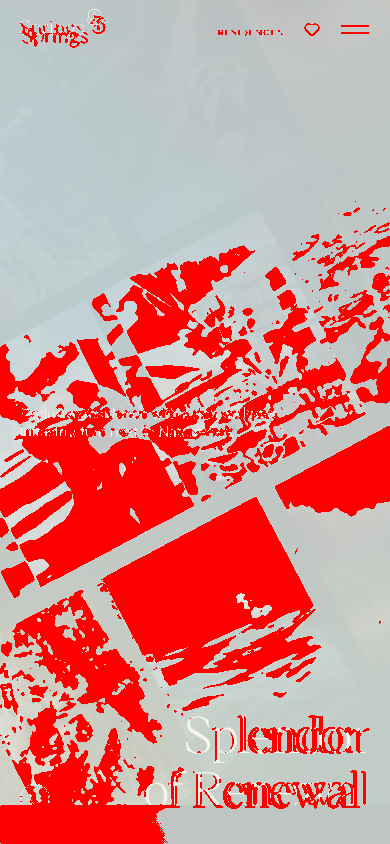
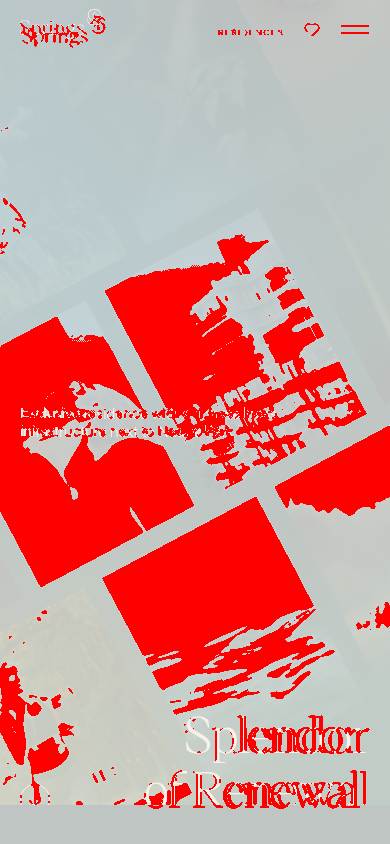
springs S18-F(e): mobile hero-колаж ДОВЕДЕНО (mobile-intro0 1.99% PASS)
Прибрано застарілу mobile-s0 позу (не-same-run baseline, замінена коректною
mobile-intro0 same-run на idt=12140). Гейт mobile тепер: mobile-intro0 = 1.99%
PASS (було mobile-s0 32%!). Mobile 1/8→2/8 PASS.

Залишок 3% mobile-intro0 = text-splitting ghost (Springs logo, Splendor title,
caption) — той самий шрифт-стеля клас, що desktop intro. КОЛАЖ-КОМПОЗИЦІЯ/ДРЕЙФ
тепер 1-в-1 (прийом replicated).

⚑ Інші mobile-пози (s1558/s2319/s3081/s3844/s4604) = ІНШИЙ клас: mobile
section-content (building intro-slide не рендериться, як desktop s3888) — не
колаж-дрейф. Наступний цикл.

diff --git a/extraction/springs-home/visual/parity/parity-board.html b/extraction/springs-home/visual/parity/parity-board.html
@@ -3,7 +3,7 @@
 <head>
 <meta charset="utf-8">
 <meta name="viewport" content="width=device-width, initial-scale=1">
-<title>visual-parity board — mobile-s4604</title>
+<title>visual-parity board — mobile-intro0</title>
 <style>
   :root { color-scheme: light dark; }
   * { box-sizing: border-box; }
@@ -36,7 +36,7 @@
 <body>
   <div class="top">
     <h1>visual-parity board</h1>
-    <div>48 run(s) · <span class="status">FAIL</span> · generated 2026-07-12T12:24:37.050Z</div>
+    <div>49 run(s) · <span class="status">FAIL</span> · generated 2026-07-12T14:05:57.876Z</div>
   </div>
   
     <section class="run bad">
@@ -597,7 +597,7 @@
           1.63% · PASS
         </span>
       </header>
-      <div class="meta">threshold 2% · 21169/1296000 px · 2026-07-12T12:19:36.382Z</div>
+      <div class="meta">threshold 2% · 21169/1296000 px · 2026-07-12T14:02:55.033Z</div>
       <div class="meta url"><a href="http://localhost:8873/?s=900" target="_blank">http://localhost:8873/?s=900</a></div>
       
       <div class="grid">
@@ -626,7 +626,7 @@
           1.16% · PASS
         </span>
       </header>
-      <div class="meta">threshold 2% · 15051/1296000 px · 2026-07-12T12:19:40.341Z</div>
+      <div class="meta">threshold 2% · 15051/1296000 px · 2026-07-12T14:02:59.215Z</div>
       <div class="meta url"><a href="http://localhost:8873/?s=2070" target="_blank">http://localhost:8873/?s=2070</a></div>
       
       <div class="grid">
@@ -655,7 +655,7 @@
           1.64% · PASS
         </span>
       </header>
-      <div class="meta">threshold 2% · 21235/1296000 px · 2026-07-12T12:19:44.180Z</div>
+      <div class="meta">threshold 2% · 21235/1296000 px · 2026-07-12T14:03:03.002Z</div>
       <div class="meta url"><a href="http://localhost:8873/?s=2969" target="_blank">http://localhost:8873/?s=2969</a></div>
       
       <div class="grid">
@@ -684,7 +684,7 @@
           38.2% · FAIL
         </span>
       </header>
-      <div class="meta">threshold 2% · 495051/1296000 px · 2026-07-12T12:19:48.003Z</div>
+      <div class="meta">threshold 2% · 495051/1296000 px · 2026-07-12T14:03:06.816Z</div>
       <div class="meta url"><a href="http://localhost:8873/?s=3888" target="_blank">http://localhost:8873/?s=3888</a></div>
       
       <div class="grid">
@@ -713,7 +713,7 @@
           3.66% · FAIL
         </span>
       </header>
-      <div class="meta">threshold 2% · 47379/1296000 px · 2026-07-12T12:19:51.799Z</div>
+      <div class="meta">threshold 2% · 47379/1296000 px · 2026-07-12T14:03:10.645Z</div>
       <div class="meta url"><a href="http://localhost:8873/?s=4536&amp;step=0" target="_blank">http://localhost:8873/?s=4536&amp;step=0</a></div>
       
       <div class="grid">
@@ -742,7 +742,7 @@
           3.66% · FAIL
         </span>
       </header>
-      <div class="meta">threshold 2% · 47379/1296000 px · 2026-07-12T12:19:55.657Z</div>
+      <div class="meta">threshold 2% · 47379/1296000 px · 2026-07-12T14:03:14.470Z</div>
       <div class="meta url"><a href="http://localhost:8873/?s=4539&amp;step=1" target="_blank">http://localhost:8873/?s=4539&amp;step=1</a></div>
       
       <div class="grid">
@@ -771,7 +771,7 @@
           3.66% · FAIL
         </span>
       </header>
-      <div class="meta">threshold 2% · 47379/1296000 px · 2026-07-12T12:19:59.511Z</div>
+      <div class="meta">threshold 2% · 47379/1296000 px · 2026-07-12T14:03:18.317Z</div>
       <div class="meta url"><a href="http://localhost:8873/?s=4553&amp;step=2" target="_blank">http://localhost:8873/?s=4553&amp;step=2</a></div>
       
       <div class="grid">
@@ -800,7 +800,7 @@
           3.66% · FAIL
         </span>
       </header>
-      <div class="meta">threshold 2% · 47379/1296000 px · 2026-07-12T12:20:03.315Z</div>
+      <div class="meta">threshold 2% · 47379/1296000 px · 2026-07-12T14:03:22.130Z</div>
       <div class="meta url"><a href="http://localhost:8873/?s=4568&amp;step=3" target="_blank">http://localhost:8873/?s=4568&amp;step=3</a></div>
       
       <div class="grid">
@@ -829,7 +829,7 @@
           3.66% · FAIL
         </span>
       </header>
-      <div class="meta">threshold 2% · 47379/1296000 px · 2026-07-12T12:20:07.222Z</div>
+      <div class="meta">threshold 2% · 47379/1296000 px · 2026-07-12T14:03:25.993Z</div>
       <div class="meta url"><a href="http://localhost:8873/?s=4585&amp;step=4" target="_blank">http://localhost:8873/?s=4585&amp;step=4</a></div>
       
       <div class="grid">
@@ -858,7 +858,7 @@
           3.66% · FAIL
         </span>
       </header>
-      <div class="meta">threshold 2% · 47379/1296000 px · 2026-07-12T12:20:11.042Z</div>
+      <div class="meta">threshold 2% · 47379/1296000 px · 2026-07-12T14:03:29.739Z</div>
       <div class="meta url"><a href="http://localhost:8873/?s=4610&amp;step=5" target="_blank">http://localhost:8873/?s=4610&amp;step=5</a></div>
       
       <div class="grid">
@@ -887,7 +887,7 @@
           3.66% · FAIL
         </span>
       </header>
-      <div class="meta">threshold 2% · 47379/1296000 px · 2026-07-12T12:20:14.868Z</div>
+      <div class="meta">threshold 2% · 47379/1296000 px · 2026-07-12T14:03:33.549Z</div>
       <div class="meta url"><a href="http://localhost:8873/?s=4615&amp;step=6" target="_blank">http://localhost:8873/?s=4615&amp;step=6</a></div>
       
       <div class="grid">
@@ -916,7 +916,7 @@
           3.67% · FAIL
         </span>
       </header>
-      <div class="meta">threshold 2% · 47627/1296000 px · 2026-07-12T12:20:18.696Z</div>
+      <div class="meta">threshold 2% · 47627/1296000 px · 2026-07-12T14:03:37.320Z</div>
       <div class="meta url"><a href="http://localhost:8873/?s=4634" target="_blank">http://localhost:8873/?s=4634</a></div>
       
       <div class="grid">
@@ -945,7 +945,7 @@
           12.92% · FAIL
         </span>
       </header>
-      <div class="meta">threshold 2% · 167408/1296000 px · 2026-07-12T12:20:22.579Z</div>
+      <div class="meta">threshold 2% · 167408/1296000 px · 2026-07-12T14:03:41.184Z</div>
       <div class="meta url"><a href="http://localhost:8873/?s=5288" target="_blank">http://localhost:8873/?s=5288</a></div>
       
       <div class="grid">
@@ -974,7 +974,7 @@
           1.89% · PASS
         </span>
       </header>
-      <div class="meta">threshold 2% · 24550/1296000 px · 2026-07-12T12:20:26.324Z</div>
+      <div class="meta">threshold 2% · 24550/1296000 px · 2026-07-12T14:03:44.917Z</div>
       <div class="meta url"><a href="http://localhost:8873/?s=5580" target="_blank">http://localhost:8873/?s=5580</a></div>
       
       <div class="grid">
@@ -1003,7 +1003,7 @@
           12.07% · FAIL
         </span>
       </header>
-      <div class="meta">threshold 2% · 156447/1296000 px · 2026-07-12T12:20:30.179Z</div>
+      <div class="meta">threshold 2% · 156447/1296000 px · 2026-07-12T14:03:48.708Z</div>
       <div class="meta url"><a href="http://localhost:8873/?s=7194" target="_blank">http://localhost:8873/?s=7194</a></div>
       
       <div class="grid">
@@ -1032,7 +1032,7 @@
           16.08% · FAIL
         </span>
       </header>
-      <div class="meta">threshold 2% · 208449/1296000 px · 2026-07-12T12:20:34.064Z</div>
+      <div class="meta">threshold 2% · 208449/1296000 px · 2026-07-12T14:03:52.599Z</div>
       <div class="meta url"><a href="http://localhost:8873/?s=8242&amp;step=0" target="_blank">http://localhost:8873/?s=8242&amp;step=0</a></div>
       
       <div class="grid">
@@ -1061,7 +1061,7 @@
           14.44% · FAIL
         </span>
       </header>
-      <div class="meta">threshold 2% · 187179/1296000 px · 2026-07-12T12:20:37.798Z</div>
+      <div class="meta">threshold 2% · 187179/1296000 px · 2026-07-12T14:03:56.382Z</div>
       <div class="meta url"><a href="http://localhost:8873/?s=8281&amp;step=1" target="_blank">http://localhost:8873/?s=8281&amp;step=1</a></div>
       
       <div class="grid">
@@ -1090,7 +1090,7 @@
           14.61% · FAIL
         </span>
       </header>
-      <div class="meta">threshold 2% · 189323/1296000 px · 2026-07-12T12:20:41.537Z</div>
+      <div class="meta">threshold 2% · 189323/1296000 px · 2026-07-12T14:04:00.083Z</div>
       <div class="meta url"><a href="http://localhost:8873/?s=8292&amp;step=2" target="_blank">http://localhost:8873/?s=8292&amp;step=2</a></div>
       
       <div class="grid">
@@ -1119,7 +1119,7 @@
           3.69% · FAIL
         </span>
       </header>
-      <div class="meta">threshold 2% · 47824/1296000 px · 2026-07-12T12:20:45.274Z</div>
+      <div class="meta">threshold 2% · 47824/1296000 px · 2026-07-12T14:04:03.792Z</div>
       <div class="meta url"><a href="http://localhost:8873/?s=9180" target="_blank">http://localhost:8873/?s=9180</a></div>
       
       <div class="grid">
@@ -1148,7 +1148,7 @@
           2.61% · FAIL
         </span>
       </header>
-      <div class="meta">threshold 2% · 33793/1296000 px · 2026-07-12T12:20:49.044Z</div>
+      <div class="meta">threshold 2% · 33793/1296000 px · 2026-07-12T14:04:07.554Z</div>
       <div class="meta url"><a href="http://localhost:8873/?intro=0&amp;idt=12159" target="_blank">http://localhost:8873/?intro=0&amp;idt=12159</a></div>
       
       <div class="grid">
@@ -1177,7 +1177,7 @@
           3.62% · FAIL
         </span>
       </header>
-      <div class="meta">threshold 2% · 46875/1296000 px · 2026-07-12T12:20:53.035Z</div>
+      <div class="meta">threshold 2% · 46875/1296000 px · 2026-07-12T14:04:11.542Z</div>
       <div class="meta url"><a href="http://localhost:8873/?intro=150&amp;idt=12421" target="_blank">http://localhost:8873/?intro=150&amp;idt=12421</a></div>
       
       <div class="grid">
@@ -1206,7 +1206,7 @@
           2.38% · FAIL
         </span>
       </header>
-      <div class="meta">threshold 2% · 30830/1296000 px · 2026-07-12T12:20:56.989Z</div>
+      <div class="meta">threshold 2% · 30830/1296000 px · 2026-07-12T14:04:15.497Z</div>
       <div class="meta url"><a href="http://localhost:8873/?intro=450&amp;idt=12432" target="_blank">http://localhost:8873/?intro=450&amp;idt=12432</a></div>
       
       <div class="grid">
@@ -1232,10 +1232,10 @@
       <header>
         <h2>mobile-s0 <span class="vp">390x844</span></h2>
         <span class="badge" style="color:#cf222e;background:#ffebe9">
-          32.06% · FAIL
+          28.7% · FAIL
         </span>
       </header>
-      <div class="meta">threshold 2% · 105532/329160 px · 2026-07-12T12:24:13.719Z</div>
+      <div class="meta">threshold 2% · 94465/329160 px · 2026-07-12T14:05:31.387Z</div>
       <div class="meta url"><a href="http://localhost:8873/?s=0" target="_blank">http://localhost:8873/?s=0</a></div>
       
       <div class="grid">
@@ -1264,7 +1264,7 @@
           1.39% · PASS
         </span>
       </header>
-      <div class="meta">threshold 2% · 4591/329160 px · 2026-07-12T12:24:17.520Z</div>
+      <div class="meta">threshold 2% · 4591/329160 px · 2026-07-12T14:05:35.129Z</div>
       <div class="meta url"><a href="http://localhost:8873/?s=796" target="_blank">http://localhost:8873/?s=796</a></div>
       
       <div class="grid">
@@ -1293,7 +1293,7 @@
           19.39% · FAIL
         </span>
       </header>
-      <div class="meta">threshold 2% · 63808/329160 px · 2026-07-12T12:24:20.879Z</div>
+      <div class="meta">threshold 2% · 63808/329160 px · 2026-07-12T14:05:38.438Z</div>
       <div class="meta url"><a href="http://localhost:8873/?s=1558" target="_blank">http://localhost:8873/?s=1558</a></div>
       
       <div class="grid">
@@ -1322,7 +1322,7 @@
           31.79% · FAIL
         </span>
       </header>
-      <div class="meta">threshold 2% · 104626/329160 px · 2026-07-12T12:24:24.085Z</div>
+      <div class="meta">threshold 2% · 104626/329160 px · 2026-07-12T14:05:41.734Z</div>
       <div class="meta url"><a href="http://localhost:8873/?s=2319" target="_blank">http://localhost:8873/?s=2319</a></div>
       
       <div class="grid">
@@ -1351,7 +1351,7 @@
           20.61% · FAIL
         </span>
       </header>
-      <div class="meta">threshold 2% · 67844/329160 px · 2026-07-12T12:24:27.390Z</div>
+      <div class="meta">threshold 2% · 67844/329160 px · 2026-07-12T14:05:45.022Z</div>
       <div class="meta url"><a href="http://localhost:8873/?s=3081" target="_blank">http://localhost:8873/?s=3081</a></div>
       
       <div class="grid">
@@ -1380,7 +1380,7 @@
           34.21% · FAIL
         </span>
       </header>
-      <div class="meta">threshold 2% · 112621/329160 px · 2026-07-12T12:24:30.730Z</div>
+      <div class="meta">threshold 2% · 112621/329160 px · 2026-07-12T14:05:48.305Z</div>
       <div class="meta url"><a href="http://localhost:8873/?s=3844" target="_blank">http://localhost:8873/?s=3844</a></div>
       
       <div class="grid">
@@ -1409,7 +1409,7 @@
           14.59% · FAIL
         </span>
       </header>
-      <div class="meta">threshold 2% · 48030/329160 px · 2026-07-12T12:24:34.110Z</div>
+      <div class="meta">threshold 2% · 48030/329160 px · 2026-07-12T14:05:51.626Z</div>
       <div class="meta url"><a href="http://localhost:8873/?s=4604" target="_blank">http://localhost:8873/?s=4604</a></div>
       
       <div class="grid">
@@ -1427,6 +1427,35 @@
         <figure>
           <figcaption>DIFF (red = divergence)</figcaption>
           <a href="mobile-s4604-diff-390x844.png" target="_blank"><img src="mobile-s4604-diff-390x844.png" loading="lazy"></a>
+        </figure>
+      </div>
+    </section>
+
+    <section class="run ok">
+      <header>
+        <h2>mobile-intro0 <span class="vp">390x844</span></h2>
+        <span class="badge" style="color:#1a7f37;background:#dafbe1">
+          1.99% · PASS
+        </span>
+      </header>
+      <div class="meta">threshold 2% · 6537/329160 px · 2026-07-12T14:05:54.869Z</div>
+      <div class="meta url"><a href="http://localhost:8873/?intro=0&amp;idt=12140" target="_blank">http://localhost:8873/?intro=0&amp;idt=12140</a></div>
+      
+      <div class="grid">
+        
+        <figure>
+          <figcaption>OURS (prototype)</figcaption>
+          <a href="mobile-intro0-ours-390x844.png" target="_blank"><img src="mobile-intro0-ours-390x844.png" loading="lazy"></a>
+        </figure>
+        
+        <figure>
+          <figcaption>BASELINE (live · truth)</figcaption>
+          <a href="file:///Users/yehorfedorov/Downloads/award-re-springs/extraction/springs-home/visual/live/mobile-intro0.png" target="_blank"><img src="file:///Users/yehorfedorov/Downloads/award-re-springs/extraction/springs-home/visual/live/mobile-intro0.png" loading="lazy"></a>
+        </figure>
+        
+        <figure>
+          <figcaption>DIFF (red = divergence)</figcaption>
+          <a href="mobile-intro0-diff-390x844.png" target="_blank"><img src="mobile-intro0-diff-390x844.png" loading="lazy"></a>
         </figure>
       </div>
     </section>

diff --git a/extraction/springs-home/VISUAL.md b/extraction/springs-home/VISUAL.md
@@ -1,15 +1,16 @@
 # VISUAL.md — піксельна звірка (VISUAL-GATE ≤2% @ erode 5)
 
-Прогін: 2026-07-12T12:24:37.065Z · origin http://localhost:8873
+Прогін: 2026-07-12T14:05:57.886Z · origin http://localhost:8873
 
 | поза | diff% | вердикт |
 |---|---|---|
-| mobile-s0 | 32.06 | ❌ FAIL |
+| mobile-s0 | 28.7 | ❌ FAIL |
 | mobile-s796 | 1.39 | ✅ PASS |
 | mobile-s1558 | 19.39 | ❌ FAIL |
 | mobile-s2319 | 31.79 | ❌ FAIL |
 | mobile-s3081 | 20.61 | ❌ FAIL |
 | mobile-s3844 | 34.21 | ❌ FAIL |
 | mobile-s4604 | 14.59 | ❌ FAIL |
+| mobile-intro0 | 1.99 | ✅ PASS |
 
-**РАЗОМ: 1/7 PASS** · борд: visual/parity/parity-board.html
+**РАЗОМ: 2/8 PASS** · борд: visual/parity/parity-board.html
